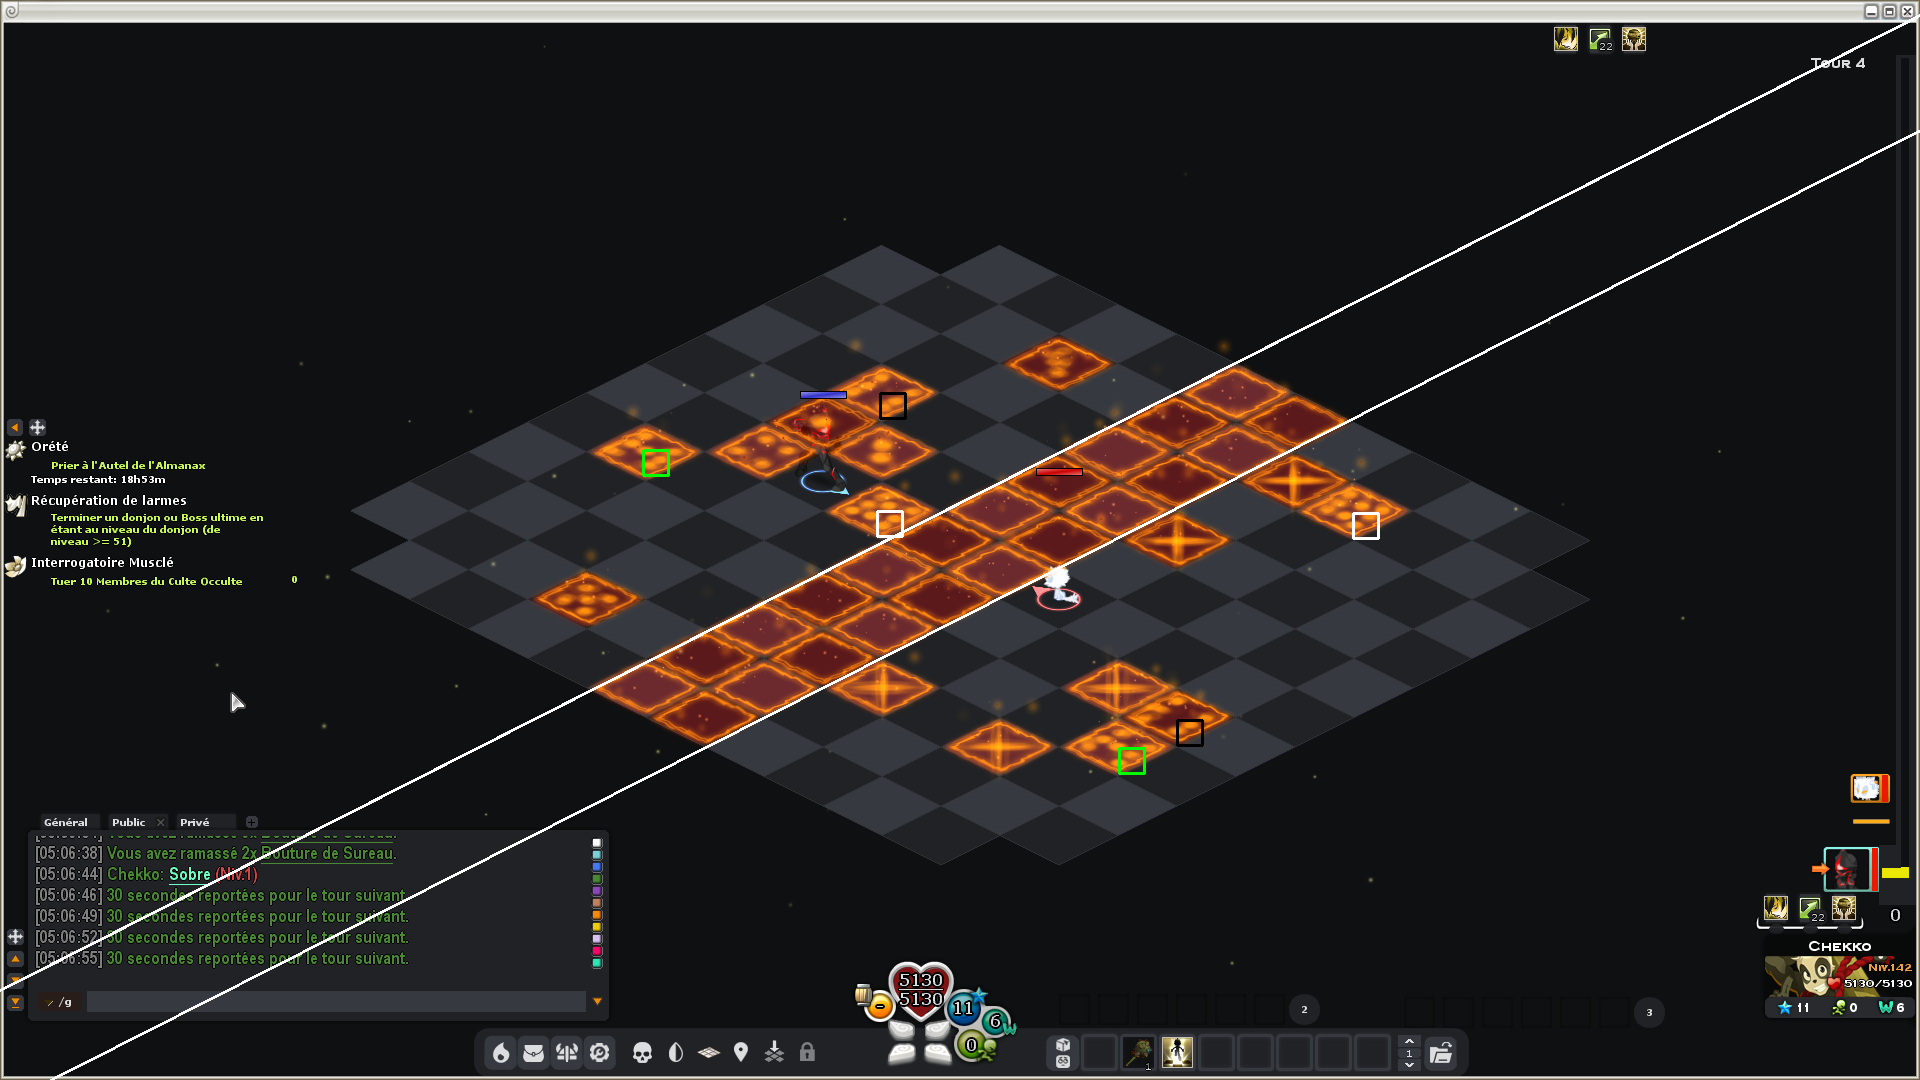
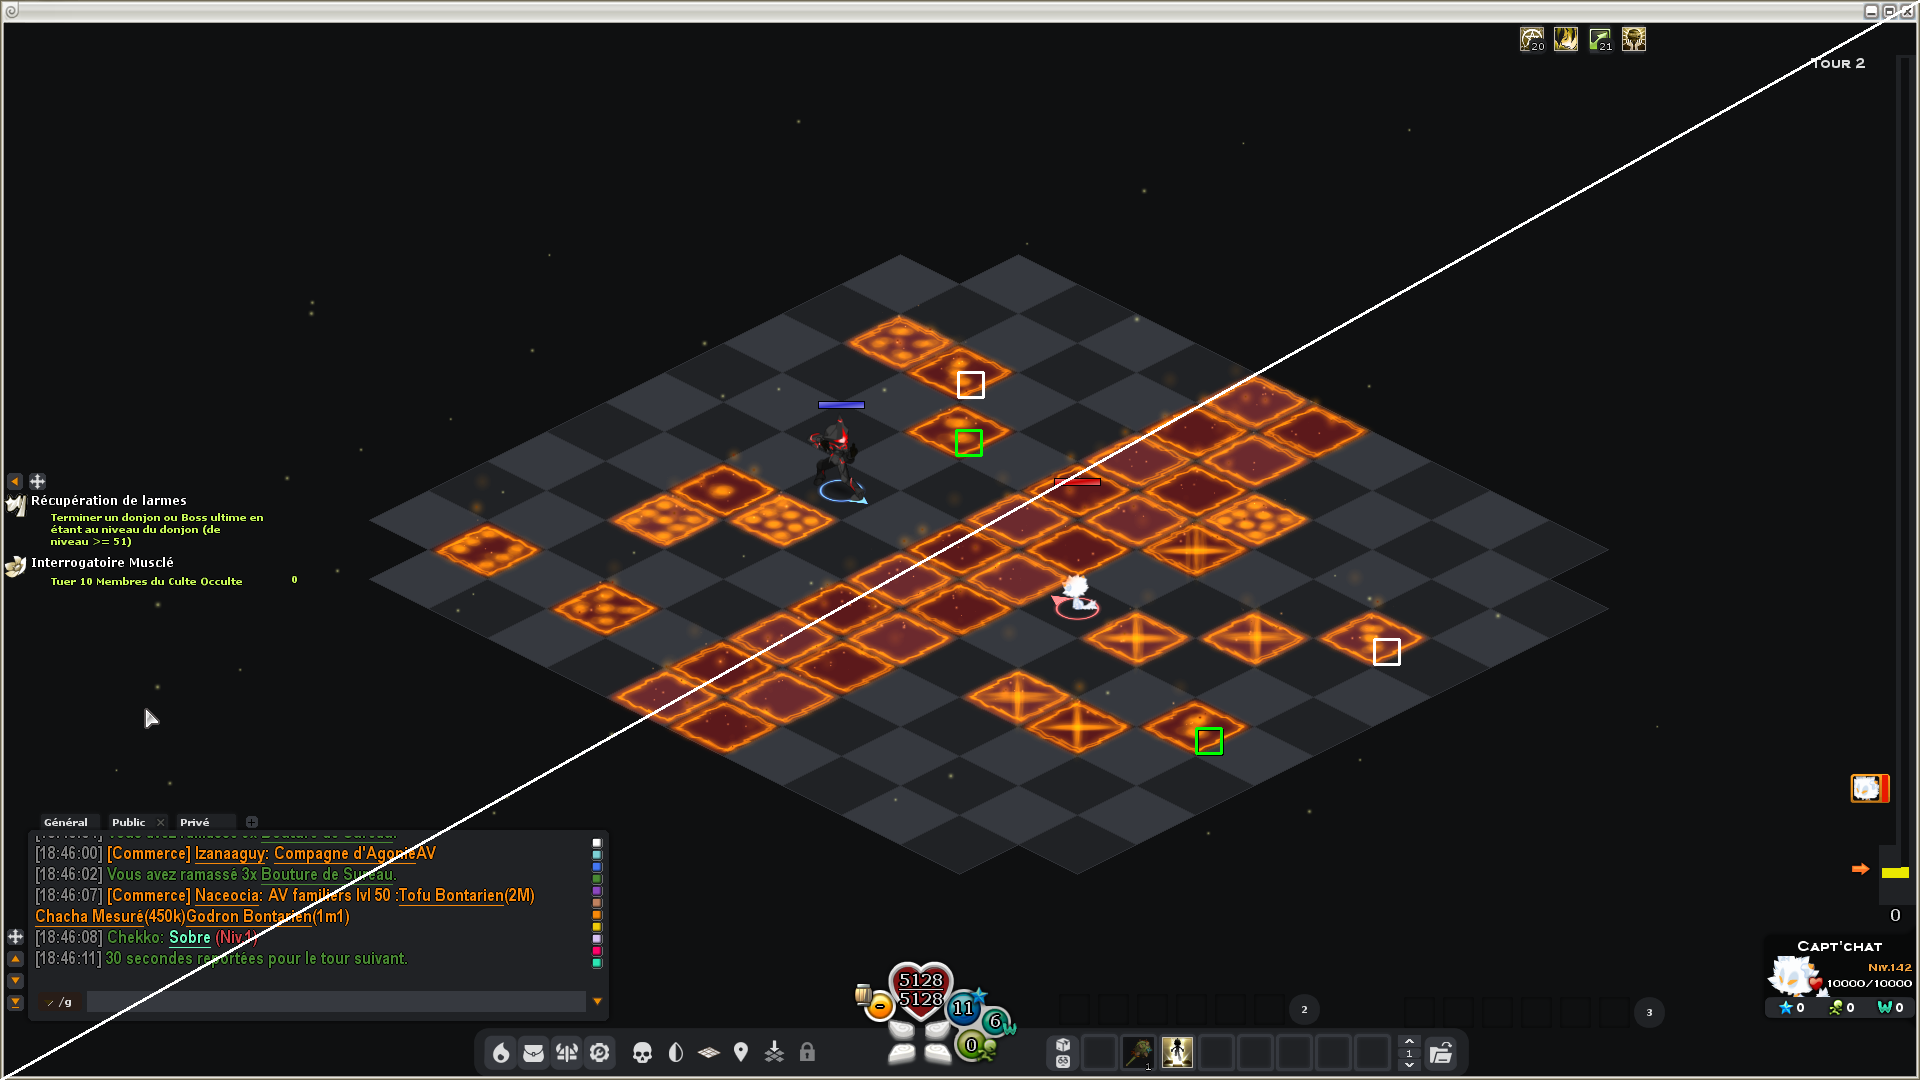
Capchat plus ou moins fonctionnel, passage sur une autre branche

diff --git a/functions/findMatch.py b/functions/findMatch.py
@@ -2,7 +2,7 @@ import cv2
 import numpy as nm
 
 def checkIfUpper(pos):
-    y = 985 - (pos[0]   * 0.507813)
+    y = 1080 - (pos[0]   * 0.5625)
     if(pos[1] < y):
         return True
     else:
@@ -10,7 +10,7 @@ def checkIfUpper(pos):
 
 
 def checkIfUnder(pos):
-    y = 1110.4 - (pos[0] * 0.508021)
+    y = 1080 - (pos[0] * 0.5625)
     if(pos[1] > y):
         return True
     else:
@@ -36,6 +36,8 @@ def findMatch(img_rgb, patterns):
                     first = pt
                 current = pt
             if(checkIfUpper(first) and checkIfUnder(current)):
+                print(first)
+                print(current)
                 return (index,getMiddle(first,template),getMiddle(current,template))      
                
         index+=1

diff --git a/bot.py b/bot.py
@@ -19,7 +19,7 @@ patterns = [
     ["eight","./patterns/eight.png"],
 ]
 
-img_rgb = cv2.imread('./captures/full_cap1.png')
+img_rgb = cv2.imread('./captures/full_cap2.png')
 
 matchs = []
 while len(matchs)<3:
@@ -39,8 +39,7 @@ while len(matchs)<3:
 
     
 w, h = img_rgb.shape[:-1]
-cv2.line(img_rgb,(0,990),(h,15), (255,255,255), 2)
-cv2.line(img_rgb,(50,w),(h,130), (255,255,255), 2)
+cv2.line(img_rgb,(0,w),(h,0), (255,255,255), 2)
 
 
 
